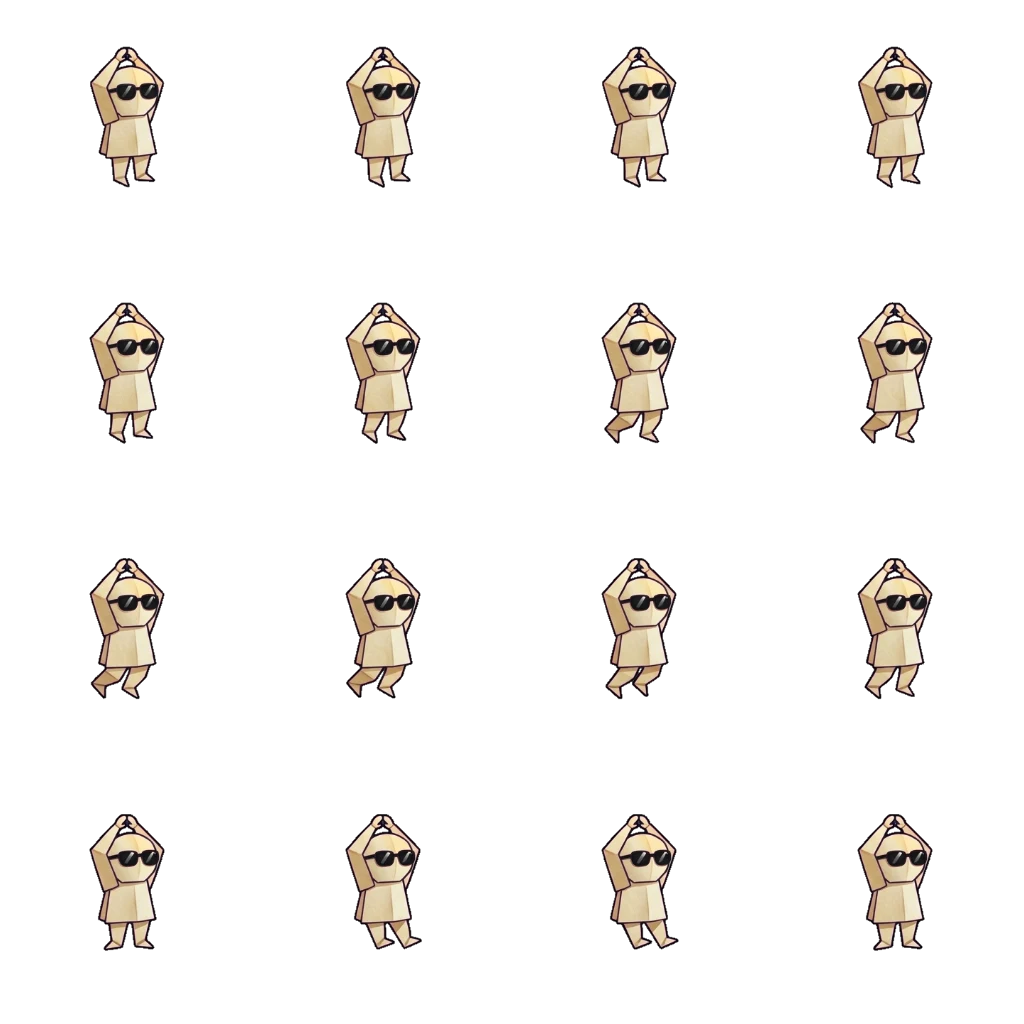
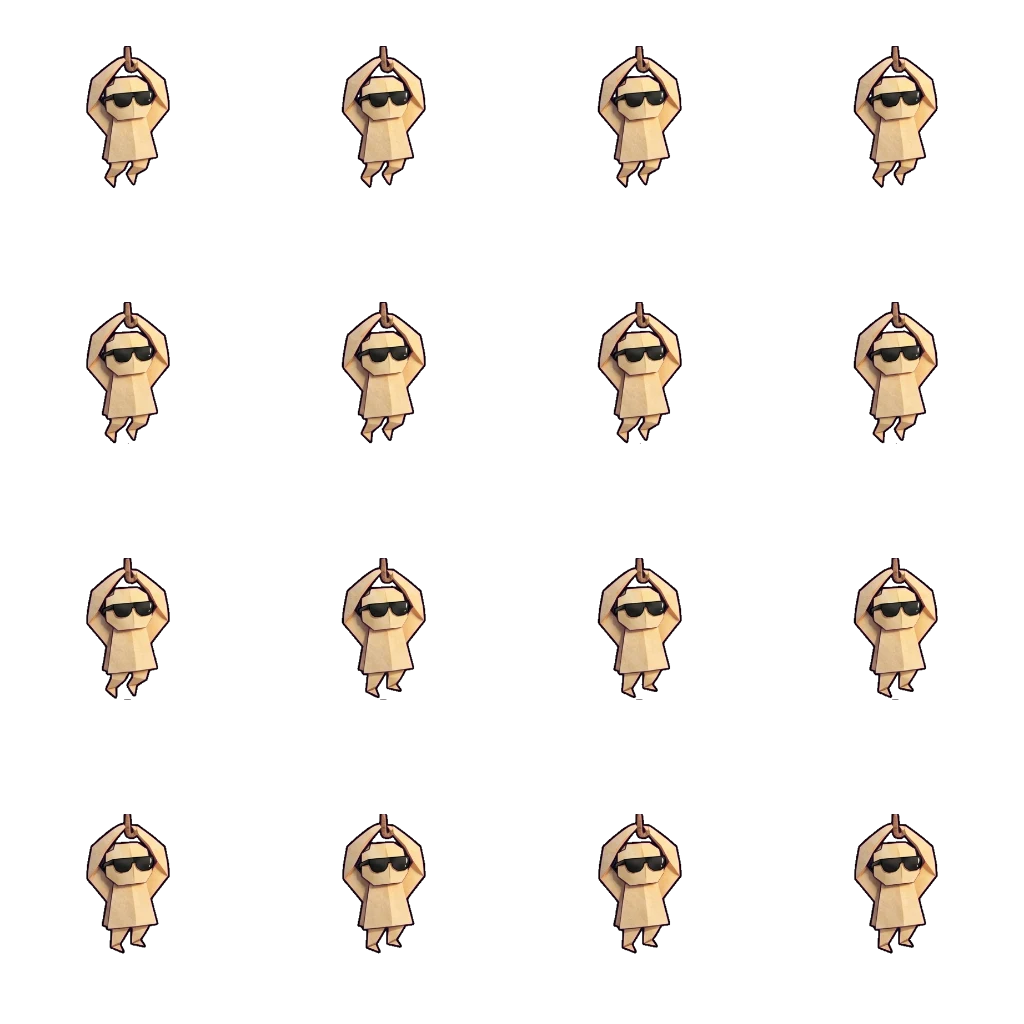
Lantern intro: painted Chad and a long cut-paper cloud Pweeg walks on and climbs down from

diff --git a/src/umbrella/cutscene.ts b/src/umbrella/cutscene.ts
@@ -12,6 +12,7 @@
 
 import { createWorld, type World } from './engine'
 import { render, type Camera, type Labels } from './renderer'
+import { kiteArt } from './art/hooks'
 import { drawPweeg, drawUmbrella, heldAt, type PweegPose } from './characters'
 import { drawChad, flipArc, type ChadAction } from './chad'
 import type { LevelDef, Vec } from './levels'
@@ -36,7 +37,8 @@ export interface HoldSeg extends SegBase {
 /** A walk along the ground at `speed` px/s. */
 export interface WalkSeg extends SegBase { kind: 'walk'; a: Vec; speed: number }
 /** Pweeg hanging off an edge and lowering himself to the cloud below (needs `to`). */
-export interface ClimbSeg extends SegBase { kind: 'climb'; to: number; edgeX: number; top: number; ground: number }
+/** `hang`: how far below the edge his feet hang while his raised hands hold it (about his height). */
+export interface ClimbSeg extends SegBase { kind: 'climb'; to: number; edgeX: number; top: number; ground: number; hang?: number }
 /** Pre-sampled path (Chad's float, simulated with the engine), `rate` frames per second. */
 export interface FramesSeg extends SegBase {
   kind: 'frames'; rate: number
@@ -108,10 +110,15 @@ export const poseAt = (a: ActorDef, t: number): Pose | null => {
     case 'walk':
       return { ...base, x: s.a.x + local * s.speed, y: s.a.y, pose: 'walk', at: local, step: local * s.speed * STEP_STRIDE }
     case 'climb': {
-      // Hanging from the edge by his hands, lowering himself, then the last little drop.
+      // Hanging from the edge by his hands (raised over his head, on the rim: his feet a body's height
+      // below it), lowering himself, then the last little drop. The first moment swings him off
+      // the top into the hang.
       const k = local / Math.max(1e-6, s.to - s.from)
       const x = s.edgeX + Math.min(1, k * 3) * 28
-      const y = s.top + (s.ground - s.top) * (k < 0.7 ? k / 0.7 * 0.6 : 0.6 + ((k - 0.7) / 0.3) ** 2 * 0.4)
+      const hang = Math.min(s.ground, s.top + (s.hang ?? 0))
+      const swing = Math.min(1, k * 5)
+      const start = s.top + (hang - s.top) * swing * swing * (3 - 2 * swing)
+      const y = k < 0.2 ? start : hang + (s.ground - hang) * (k < 0.7 ? ((k - 0.2) / 0.5) * 0.4 : 0.4 + ((k - 0.7) / 0.3) ** 2 * 0.6)
       return { ...base, x, y, pose: 'cheer', at: local }
     }
     case 'frames': {
@@ -141,10 +148,13 @@ export const createCutscene = (def: CutsceneDef, level: LevelDef, tuning: Tuning
 
   const drawClouds = (ctx: CanvasRenderingContext2D) => {
     ctx.save()
-    // Inside the world only: never over the letterbox bars.
-    ctx.beginPath()
-    ctx.rect(0, 0, level.world.w, level.world.h)
-    ctx.clip()
+    // Inside the world only: never over the letterbox bars (a painted sky has none: there the
+    // clouds carry on past the world's edge, so a wide screen never cuts them off).
+    if (!kiteArt.cloudBank) {
+      ctx.beginPath()
+      ctx.rect(0, 0, level.world.w, level.world.h)
+      ctx.clip()
+    }
     for (const r of def.clouds) cloudBank(ctx, r)
     ctx.restore()
   }
@@ -154,6 +164,8 @@ export const createCutscene = (def: CutsceneDef, level: LevelDef, tuning: Tuning
    *  the bottom. Each puff's size is fixed by its place, so the bank holds still. */
   const cloudBank = (ctx: CanvasRenderingContext2D, r: CloudRow) => {
     const bottom = r.top + 16 + r.depth
+    // The lantern build: its own folded-paper clouds instead of the drawn puffs.
+    if (kiteArt.cloudBank?.(ctx, r.x0, r.x1, r.top, bottom)) return
     const w = r.x1 - r.x0
     const endR = Math.max(16, Math.min(42, r.depth * 0.45))
     ctx.beginPath()

diff --git a/src/umbrella/art/paint.ts b/src/umbrella/art/paint.ts
@@ -2456,6 +2456,37 @@ const layeredBackdrop = (ctx: CanvasRenderingContext2D, cw: number, ch: number, 
 let skyStill: { key: string; canvas: HTMLCanvasElement } | null = null
 
 let stillKey = ''
+
+/** A cutscene's cloud bank in the lantern build: the painted long folded-paper cloud (intro-cloud,
+ *  a rolling, nearly level top) laid along the bank, its top puffs on the walkable line so the actors
+ *  walk on the cloud itself, and its two rounded ends at the bank's ends so the step down shows. */
+const INTRO_CLOUD_TOP = 0.05
+const cloudBank = (ctx: CanvasRenderingContext2D, x0: number, x1: number, top: number, bottom: number): boolean => {
+  if (!isLantern || !paintedOn) return false
+  const img = sheetImage('intro-cloud')
+  if (!img) return false
+  const span = x1 - x0
+  // Its height follows its own shape a little, never squashed thin on a long bank.
+  const h = Math.max((bottom - top) * 1.6, Math.min(span * (img.height / img.width), (bottom - top) * 2.6))
+  ctx.save()
+  ctx.imageSmoothingEnabled = true
+  ctx.imageSmoothingQuality = 'high'
+  const y = top - h * INTRO_CLOUD_TOP
+  // A bank that starts off the level's left edge carries on off screen: the painting's middle
+  // (no end curl) repeated leftward, so a wide screen never shows where it stops.
+  const left = x0 - span * 0.03 - 10
+  const w = span * 1.06 + 34
+  if (x0 < 0) {
+    const mid = { sx: img.width * 0.25, sw: img.width * 0.5 }
+    const dw = (mid.sw / img.width) * w
+    for (let x = left + w * 0.25 - dw; x > -3000; x -= dw * 0.98) ctx.drawImage(img, mid.sx, 0, mid.sw, img.height, x, y, dw, h)
+  }
+  // A little past both ends: the painting's ends curl in, and the level's start plank under the
+  // lower bank must not peek out.
+  ctx.drawImage(img, left, y, w, h)
+  ctx.restore()
+  return true
+}
 /** Weak phones: keep the background canvas painted (the base colour and the merged sky),
  *  repainting only when the screen size or a layer changes. */
 const stillBackdrop = (canvas: HTMLCanvasElement, fullBleed: boolean): boolean => {
@@ -2538,6 +2569,7 @@ export const KITE_PAINTERS: Required<KiteArt> = {
   cheerHand: () => cheerHandAt,
   backdrop,
   stillBackdrop,
+  cloudBank,
   collect,
   gate,
   pweeg,

diff --git a/src/umbrella/intro.ts b/src/umbrella/intro.ts
@@ -113,7 +113,7 @@ export const introCutscene = (level: LevelDef, tuning: Tuning): CutsceneDef => {
   const pweeg: Seg[] = [
     { kind: 'walk', from: tPweeg, to: tEdge, a: { x: upperLeft + 20, y: upperTop }, speed: WALK_SPEED },
     { kind: 'hold', from: tEdge, to: tClimb, at: { x: upperEdge - 14, y: upperTop }, pose: 'stand' },
-    { kind: 'climb', from: tClimb, to: tDown, edgeX: upperEdge - 14, top: upperTop, ground },
+    { kind: 'climb', from: tClimb, to: tDown, edgeX: upperEdge - 14, top: upperTop, ground, hang: tuning.playerHeight * 1.05 },
     { kind: 'walk', from: tDown, to: tSpawn, a: { x: upperEdge + 14, y: ground }, speed: WALK_SPEED },
     { kind: 'hold', from: tSpawn, at: { x: level.spawn.x, y: ground }, pose: 'stand', frontAfter: 0.15, blink: [0.3, 0.42] }
   ]

diff --git a/src/umbrella/art/hooks.ts b/src/umbrella/art/hooks.ts
@@ -37,6 +37,9 @@ export interface KiteArt {
    *  screen changes size. True: the caller clears `canvas` to transparent instead of filling and
    *  painting the sky. */
   stillBackdrop?: (canvas: HTMLCanvasElement, fullBleed: boolean) => boolean
+  /** A cutscene's cloud bank (x0..x1, its walkable top at `top`, `bottom` its underside), in world
+   *  space: the lantern build lays its folded-paper cloud cut-outs along it. */
+  cloudBank?: (ctx: CanvasRenderingContext2D, x0: number, x1: number, top: number, bottom: number) => boolean
 }
 
 export const kiteArt: KiteArt = {}
